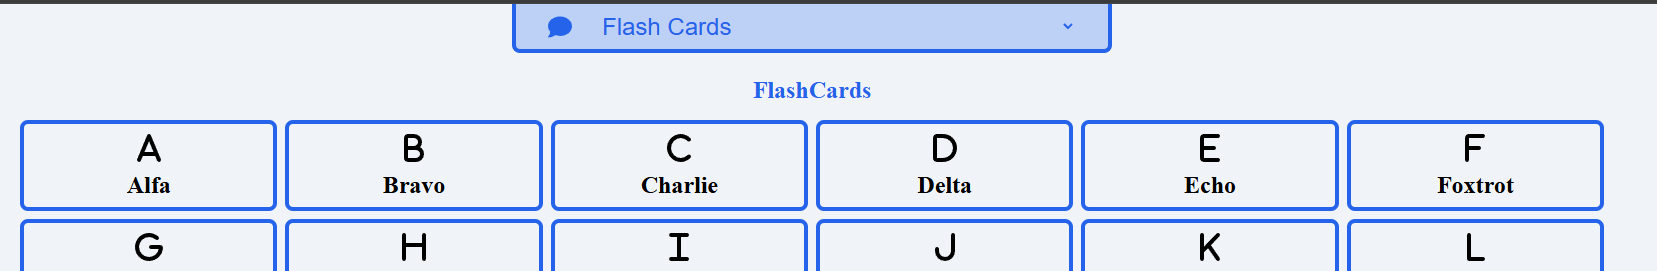
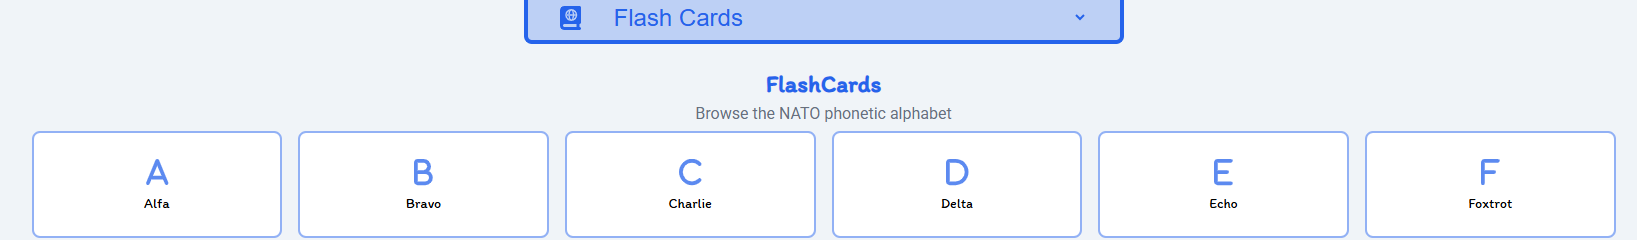
Version 2.0

diff --git a/README.md b/README.md
@@ -68,3 +68,7 @@ In the quiz you have the option of entering a text and you are then asked how to
   * Vite
   * React
   * FontAwesomeIcon
+
+## Versions
+- V1.0: Full functionality with UI
+- V2.0: Full UI redesign
